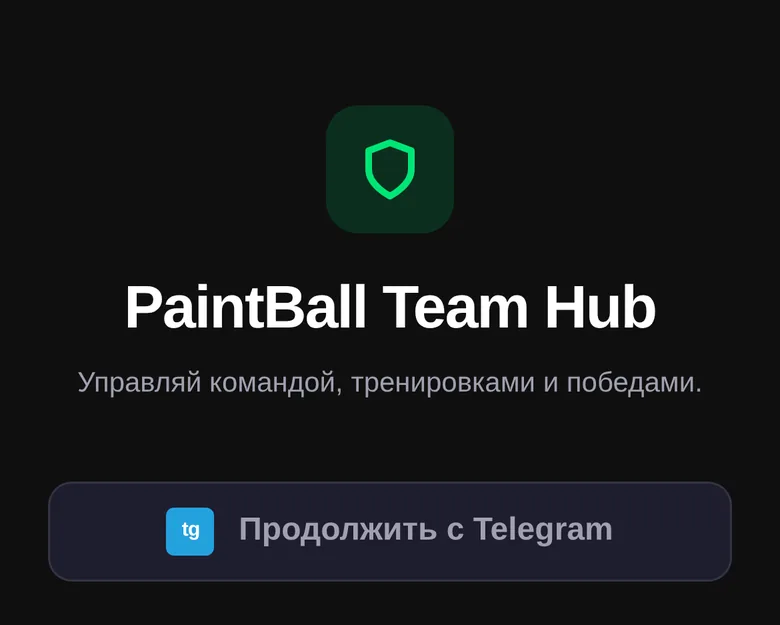
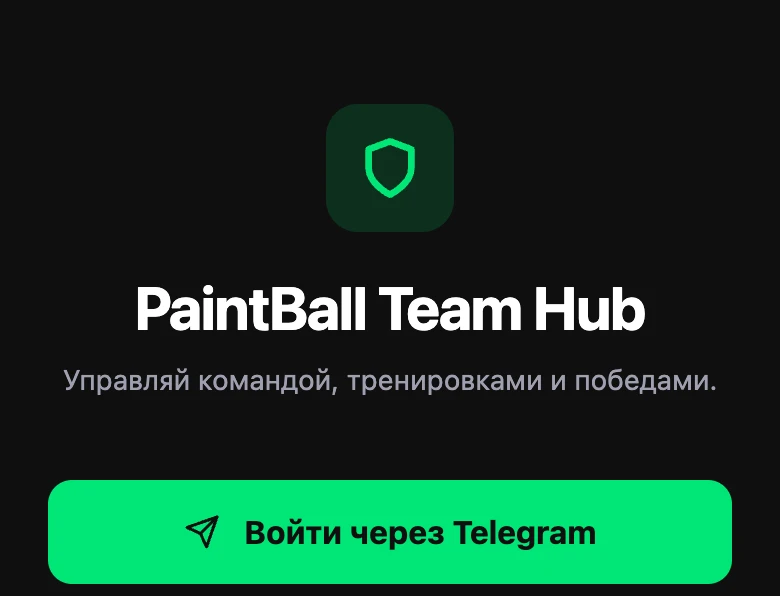
docs(pbth): инструкции и лендинг под ревизию — ссылка команды, заявки, напоминания, слоты
Инструкция капитана: новый раздел «Завести команду и позвать игроков»,
«Напомнить» и «Кому дошло» в проверке явки, раздел «Открыть свободные
слоты»; убраны расчёт сбора и отметка платежей (спрятаны до второго
захода) и личные приглашения (теперь ссылка команды и заявки).
Инструкция игрока: вход кодом по ссылке капитана, ответ на явку прямо в
Telegram, казна игрока без баланса и истории; переснят экран входа.
Лендинг: вместо обещания сбора взносов — то, что есть на экранах.

diff --git a/pbth/public/guide/captain.html b/pbth/public/guide/captain.html
@@ -1,10 +1,12 @@
-<!doctype html><html lang="ru"><head><meta charset="utf-8"><meta name="viewport" content="width=device-width,initial-scale=1"><title>Инструкция для капитана — PaintBall Team Hub</title><style>:root{--bg:#0f0f0f;--s:#1e1e2e;--p:#00e676;--t:#fff;--m:#a0a0b0;--l:#ffffff1a}*{box-sizing:border-box}body{margin:0;background:var(--bg);color:var(--t);font:16px/1.6 Arial,sans-serif}.wrap{max-width:760px;margin:auto;padding:0 18px}header{padding:42px 0 30px;background:radial-gradient(ellipse at top,#00e67622,transparent 65%)}.badge{color:var(--p);font-weight:bold}h1{font-size:34px;line-height:1.15}nav,.guide-part,.cheat{padding:14px 16px;border:1px solid var(--l);border-radius:14px;background:var(--s)}nav a{display:block;min-height:44px;padding:9px 0;color:var(--t)}a:focus-visible{outline:3px solid var(--p);outline-offset:3px}section{padding:34px 0 4px;border-top:1px solid var(--l)}h2{font-size:24px}.guide-part{margin:16px 0}.guide-part h3{margin:0 0 8px;font-size:16px}.zoom{display:block}.zoom img,figure>img{display:block;width:100%;max-width:100%;height:auto;border:1px solid var(--l);border-radius:14px}figure{margin:20px 0}figcaption{color:var(--m);font-size:13px;text-align:center;margin-top:7px}footer{padding:32px 0;color:var(--m);text-align:center}@media(max-width:520px){.wrap{padding:0 16px}h1{font-size:27px}h2{font-size:21px}}</style></head><body><header><div class="wrap"><span class="badge">Инструкция · Капитан</span><h1>PaintBall Team Hub<br>для капитана</h1><p>Здесь показано, как капитану создать событие, собрать ответы команды, записать результаты, посмотреть итоговый разбор, вести деньги и состав. В каждом разделе указано, что нужно сделать и что получится в результате.</p><nav class="toc" aria-labelledby="toc-title"><h2 id="toc-title">Что внутри</h2><ol><li><a href="#s1">Создать событие</a></li><li><a href="#s2">Проверить, кто придёт</a></li><li><a href="#s3">Добавить игры и записать счёт</a></li><li><a href="#s4">Указать порядок отрезков</a></li><li><a href="#s5">Добавить заметки капитана</a></li><li><a href="#s6">Итоговый разбор</a></li><li><a href="#s7">Вести деньги</a></li><li><a href="#s8">Вести состав</a></li><li><a href="#s9">Памятка</a></li></ol></nav></div></header><main class="wrap">
+<!doctype html><html lang="ru"><head><meta charset="utf-8"><meta name="viewport" content="width=device-width,initial-scale=1"><title>Инструкция для капитана — PaintBall Team Hub</title><style>:root{--bg:#0f0f0f;--s:#1e1e2e;--p:#00e676;--t:#fff;--m:#a0a0b0;--l:#ffffff1a}*{box-sizing:border-box}body{margin:0;background:var(--bg);color:var(--t);font:16px/1.6 Arial,sans-serif}.wrap{max-width:760px;margin:auto;padding:0 18px}header{padding:42px 0 30px;background:radial-gradient(ellipse at top,#00e67622,transparent 65%)}.badge{color:var(--p);font-weight:bold}h1{font-size:34px;line-height:1.15}nav,.guide-part,.cheat{padding:14px 16px;border:1px solid var(--l);border-radius:14px;background:var(--s)}nav a{display:block;min-height:44px;padding:9px 0;color:var(--t)}a:focus-visible{outline:3px solid var(--p);outline-offset:3px}section{padding:34px 0 4px;border-top:1px solid var(--l)}h2{font-size:24px}.guide-part{margin:16px 0}.guide-part h3{margin:0 0 8px;font-size:16px}.zoom{display:block}.zoom img,figure>img{display:block;width:100%;max-width:100%;height:auto;border:1px solid var(--l);border-radius:14px}figure{margin:20px 0}figcaption{color:var(--m);font-size:13px;text-align:center;margin-top:7px}footer{padding:32px 0;color:var(--m);text-align:center}@media(max-width:520px){.wrap{padding:0 16px}h1{font-size:27px}h2{font-size:21px}}</style></head><body><header><div class="wrap"><span class="badge">Инструкция · Капитан</span><h1>PaintBall Team Hub<br>для капитана</h1><p>Здесь показано, как капитану завести команду и позвать игроков, создать событие, собрать ответы команды, записать результаты, посмотреть итоговый разбор, вести деньги и состав. В каждом разделе указано, что нужно сделать и что получится в результате.</p><nav class="toc" aria-labelledby="toc-title"><h2 id="toc-title">Что внутри</h2><ol><li><a href="#s0">Завести команду</a></li><li><a href="#s1">Создать событие</a></li><li><a href="#s2">Проверить, кто придёт</a></li><li><a href="#s3">Добавить игры и записать счёт</a></li><li><a href="#s4">Указать порядок отрезков</a></li><li><a href="#s5">Добавить заметки капитана</a></li><li><a href="#s6">Итоговый разбор</a></li><li><a href="#s7">Вести деньги</a></li><li><a href="#s8">Вести состав</a></li><li><a href="#s10">Свободные слоты</a></li><li><a href="#s9">Памятка</a></li></ol></nav></div></header><main class="wrap">
+<section id="s0"><h2>Завести команду и позвать игроков</h2><div class="guide-part"><h3>Что сделать</h3><ol><li>Войдите через Telegram.</li><li>Если команды ещё нет, нажмите «Создать команду», укажите название и отправьте заявку.</li><li>Дождитесь одобрения: команда откроется сама, в Telegram придёт сообщение.</li><li>Откройте раздел «Команда» и нажмите «Пригласить».</li><li>Отправьте ссылку команды в чат или покажите QR-код.</li><li>Принимайте заявки: кнопкой «Принять» в сообщении бота или на экране «Заявки».</li></ol></div><div class="guide-part"><h3>Что получится</h3><p>Игроки попадут в состав по одной ссылке. Личные приглашения рассылать не нужно.</p></div></section>
 <section id="s1"><h2>Создать событие</h2><div class="guide-part"><h3>Что сделать</h3><ol><li>Нажмите кнопку создания события.</li><li>Выберите его вид: тренировка, сбор, турнир или чемпионат.</li><li>Укажите дату, время и место.</li><li>Если событие повторяется, создайте сразу несколько событий.</li><li>Сохраните событие.</li></ol></div><figure><a class="zoom" href="img/event-create.webp"><img src="img/event-create.webp" alt="Форма создания события с датой, временем и местом" width="390" height="982" loading="eager"></a><figcaption>Создание события</figcaption></figure><div class="guide-part"><h3>Что получится</h3><p>Событие появится у участников команды. Они увидят место и время и смогут сообщить, придут они или нет.</p></div></section>
-<section id="s2"><h2>Проверить, кто придёт</h2><div class="guide-part"><h3>Что сделать</h3><ol><li>Откройте нужное событие.</li><li>Посмотрите ответы участников.</li><li>Если время или место изменились, отредактируйте событие.</li></ol></div><figure><img src="img/training.webp" alt="Список ответов участников" width="780" height="2878" loading="lazy" decoding="async"><figcaption>Ответы участников</figcaption></figure><div class="guide-part"><h3>Что получится</h3><p>У вас будет актуальный список участников, а команда увидит последние изменения.</p></div></section>
+<section id="s2"><h2>Проверить, кто придёт</h2><div class="guide-part"><h3>Что сделать</h3><ol><li>Откройте нужное событие.</li><li>Посмотрите ответы участников.</li><li>Нажмите «Напомнить», чтобы написать тем, кто не ответил.</li><li>В блоке «Кому дошло» проверьте, кому напоминание доставлено.</li><li>Если время или место изменились, отредактируйте событие.</li></ol></div><figure><img src="img/training.webp" alt="Список ответов участников" width="780" height="2878" loading="lazy" decoding="async"><figcaption>Ответы участников</figcaption></figure><div class="guide-part"><h3>Что получится</h3><p>У вас будет актуальный список участников, а команда увидит последние изменения. На напоминание игроки отвечают кнопками «Иду» и «Не иду» прямо в Telegram.</p></div></section>
 <section id="s3"><h2>Добавить игры и записать счёт</h2><div class="guide-part"><h3>Что сделать</h3><ol><li>Откройте событие.</li><li>Найдите раздел «Расписание игр».</li><li>Нажмите «Добавить».</li><li>Укажите соперника и время игры.</li><li>После окончания игры запишите счёт. Результат нашей команды всегда указывается слева. Например, <code>4:3</code> означает, что наша команда выиграла четыре игровых отрезка, а соперник — три.</li></ol></div><figure><img src="img/game-row.webp" alt="Строка игры со счётом" width="702" height="324" loading="lazy" decoding="async"><figcaption>Счёт игры</figcaption></figure><div class="guide-part"><h3>Что получится</h3><p>Результат игры сохранится в событии. На его основе приложение создаст список игровых отрезков для дальнейшего разбора.</p></div></section>
 <section id="s4"><h2>Указать порядок выигранных и проигранных отрезков</h2><p>В приложении отдельный отрезок игры называется <strong>пойнтом</strong>. Например, игра со счётом 4:3 состоит из семи пойнтов.</p><div class="guide-part"><h3>Что сделать</h3><ol><li>Нажмите «Пойнты» рядом с нужной игрой.</li><li>Для каждого пойнта укажите: «Выиграли» или «Проиграли».</li><li>Проверьте, что количество побед и поражений совпадает со счётом игры.</li></ol></div><figure><img src="img/points.webp" alt="Список пойнтов с победами и поражениями" width="780" height="1520" loading="lazy" decoding="async"><figcaption>Порядок пойнтов</figcaption></figure><div class="guide-part"><h3>Что получится</h3><p>Будет виден реальный ход игры: в каком порядке команда выигрывала и проигрывала.</p></div></section>
 <section id="s5"><h2>Добавить заметки капитана</h2><div class="guide-part"><h3>Что сделать</h3><ol><li>Откройте нужный пойнт.</li><li>Укажите, какую тактику использовала команда.</li><li>Отметьте, как начинали игру мы и соперник.</li><li>Добавьте короткую заметку: что получилось и что нужно изменить.</li></ol></div><figure><a class="zoom" href="img/captain-report.webp"><img src="img/captain-report.webp" alt="Разбор капитана с выбранной тактикой и стартовыми параметрами" width="390" height="752" loading="lazy" decoding="async"></a><figcaption>Разбор капитана</figcaption></figure><div class="guide-part"><h3>Что получится</h3><p>Наблюдения капитана попадут в общий разбор события и помогут подготовить следующую тренировку.</p></div></section>
 <section id="s6"><h2>Посмотреть итоговый разбор события</h2><div class="guide-part"><h3>Что сделать</h3><ol><li>Откройте событие.</li><li>В разделе «Расписание игр» нажмите «Разбор».</li><li>Откройте вкладку «Итоги».</li><li>Посмотрите:<ul><li>общий результат;</li><li>как менялся результат по ходу игр;</li><li>где и на каком этапе чаще выбывали наши игроки;</li><li>какие варианты начала игры приносили лучший результат;</li><li>какие тактические решения работали лучше;</li><li>достаточно ли команда заполнила данных для надёжных выводов.</li></ul></li></ol></div><figure><a class="zoom" href="img/event-summary.webp" aria-label="Открыть итоговый разбор в полном размере"><img src="img/event-summary.webp" alt="Итоговый разбор с общим результатом, последовательностью пойнтов и анализом поражений" width="390" height="760" loading="lazy" decoding="async"></a><figcaption>Итоговый разбор</figcaption></figure><div class="guide-part"><h3>Что получится</h3><p>Вы увидите сильные и слабые места команды и сможете выбрать конкретные задачи для следующей тренировки.</p></div></section>
-<section id="s7"><h2>Вести деньги команды</h2><div class="guide-part"><h3>Что сделать</h3><ol><li>Откройте раздел «Казна».</li><li>После события добавьте расходы команды.</li><li>Проверьте рассчитанную сумму сбора.</li><li>Отметьте поступившие платежи.</li><li>Проверьте долги и историю операций.</li></ol></div><figure><img src="img/finance.webp" alt="Казна команды" width="780" height="1956" loading="lazy" decoding="async"><figcaption>Казна команды</figcaption></figure><div class="guide-part"><h3>Что получится</h3><p>Будет понятно, сколько команда потратила, сколько нужно собрать и кто ещё не заплатил.</p></div></section>
-<section id="s8"><h2>Вести состав команды</h2><div class="guide-part"><h3>Что сделать</h3><ol><li>Создайте приглашение для нового участника.</li><li>Отправьте его через Telegram.</li><li>Назначьте участнику роль.</li><li>При необходимости измените его статус.</li></ol></div><figure><img src="img/team.webp" alt="Состав команды с ролями" width="780" height="2942" loading="lazy" decoding="async"><figcaption>Состав команды</figcaption></figure><div class="guide-part"><h3>Что получится</h3><p>В приложении будет актуальный состав команды с правильными ролями и доступами.</p></div></section>
-<section id="s9"><h2>Короткая памятка капитана</h2><div class="cheat"><ul><li>Перед событием: создать событие и проверить ответы команды.</li><li>Перед играми: добавить расписание и соперников.</li><li>После каждой игры: внести счёт и указать порядок побед и поражений.</li><li>После события: добавить заметки и посмотреть итоговый разбор.</li><li>По деньгам: внести расходы, проверить сборы и долги.</li><li>По составу: пригласить участников и проверить их роли.</li></ul></div></section></main><footer>PaintBall Team Hub · инструкция для капитана</footer></body></html>
+<section id="s7"><h2>Вести деньги команды</h2><div class="guide-part"><h3>Что сделать</h3><ol><li>Откройте раздел «Казна».</li><li>После события добавьте расходы команды.</li><li>Проверьте долги и историю операций.</li></ol></div><figure><img src="img/finance.webp" alt="Казна команды" width="780" height="1956" loading="lazy" decoding="async"><figcaption>Казна команды</figcaption></figure><div class="guide-part"><h3>Что получится</h3><p>Будет понятно, сколько команда потратила и кто ещё не заплатил. Расчёт сбора по событию и отметка платежей пока недоступны.</p></div></section>
+<section id="s8"><h2>Вести состав команды</h2><div class="guide-part"><h3>Что сделать</h3><ol><li>Нажмите «Пригласить» и отправьте ссылку команды.</li><li>Примите заявку нового участника.</li><li>При необходимости сделайте участника тренером.</li><li>При необходимости измените его статус.</li></ol></div><figure><img src="img/team.webp" alt="Состав команды с ролями" width="780" height="2942" loading="lazy" decoding="async"><figcaption>Состав команды</figcaption></figure><div class="guide-part"><h3>Что получится</h3><p>В приложении будет актуальный состав команды с правильными ролями и доступами.</p></div></section>
+<section id="s10"><h2>Открыть свободные слоты</h2><div class="guide-part"><h3>Что сделать</h3><ol><li>Откройте событие, на которое не хватает игроков.</li><li>В блоке «Свободные слоты» включите открытое расписание команды.</li><li>Укажите, сколько мест свободно и цену за место.</li><li>Нажмите «Открыть слоты».</li></ol></div><div class="guide-part"><h3>Что получится</h3><p>Подписчики команды получат уведомление и смогут записаться одним нажатием. О каждой записи вам придёт сообщение с кнопкой «Снять».</p></div></section>
+<section id="s9"><h2>Короткая памятка капитана</h2><div class="cheat"><ul><li>В начале: получить команду, отправить ссылку и принять заявки.</li><li>Перед событием: создать событие, проверить ответы команды и напомнить тем, кто молчит.</li><li>Перед играми: добавить расписание и соперников.</li><li>После каждой игры: внести счёт и указать порядок побед и поражений.</li><li>После события: добавить заметки и посмотреть итоговый разбор.</li><li>По деньгам: внести расходы и проверить долги.</li><li>По составу: пригласить участников и проверить их роли.</li><li>Если не хватает игроков: открыть свободные слоты.</li></ul></div></section></main><footer>PaintBall Team Hub · инструкция для капитана</footer></body></html>

diff --git a/pbth/__tests__/unit/guides.test.ts b/pbth/__tests__/unit/guides.test.ts
@@ -4,7 +4,7 @@ import { existsSync, readFileSync } from "node:fs";
 import { fileURLToPath } from "node:url";
 import { describe, expect, it } from "vitest";
 
-const guide = (name: "captain" | "trainer") =>
+const guide = (name: "captain" | "trainer" | "player") =>
   readFileSync(fileURLToPath(new URL(`../../public/guide/${name}.html`, import.meta.url)), "utf8");
 const section = (page: string, id: string) =>
   page.match(new RegExp(`<section id="${id}">([\\s\\S]*?)</section>`))?.[1] ?? "";
@@ -23,9 +23,12 @@ describe("role guide pages", () => {
   it("ships the approved captain guide without internal jargon", () => {
     const captain = guide("captain");
     expectInOrder(visibleText(captain), [
+      "Завести команду и позвать игроков", "нажмите «Создать команду»", "нажмите «Пригласить»",
+      "Принимайте заявки", "Игроки попадут в состав по одной ссылке",
       "Создать событие", "Нажмите кнопку создания события", "тренировка, сбор, турнир или чемпионат",
       "Событие появится у участников команды", "Проверить, кто придёт", "Посмотрите ответы участников",
-      "У вас будет актуальный список участников", "Добавить игры и записать счёт",
+      "Нажмите «Напомнить»", "В блоке «Кому дошло»", "У вас будет актуальный список участников",
+      "кнопками «Иду» и «Не иду» прямо в Telegram", "Добавить игры и записать счёт",
       "Найдите раздел «Расписание игр»", "Результат нашей команды всегда указывается слева",
       "приложение создаст список игровых отрезков", "Указать порядок выигранных и проигранных отрезков",
       "отдельный отрезок игры называется", "Для каждого пойнта укажите: «Выиграли» или «Проиграли»",
@@ -34,10 +37,11 @@ describe("role guide pages", () => {
       "Посмотреть итоговый разбор события", "В разделе «Расписание игр» нажмите «Разбор»",
       "Откройте вкладку «Итоги»", "сильные и слабые места команды", "Вести деньги команды",
       "После события добавьте расходы команды", "Будет понятно, сколько команда потратила",
-      "Вести состав команды", "Создайте приглашение для нового участника", "актуальный состав команды",
+      "Вести состав команды", "Нажмите «Пригласить» и отправьте ссылку команды", "актуальный состав команды",
+      "Открыть свободные слоты", "Нажмите «Открыть слоты»", "Подписчики команды получат уведомление",
       "Короткая памятка капитана", "После каждой игры: внести счёт", "По составу: пригласить участников",
     ]);
-    for (const id of ["s1", "s2", "s3", "s4", "s5", "s6", "s7", "s8"]) {
+    for (const id of ["s0", "s1", "s2", "s3", "s4", "s5", "s6", "s7", "s8", "s10"]) {
       expect(section(captain, id)).toContain("Что сделать");
       expect(section(captain, id)).toContain("Что получится");
     }
@@ -93,10 +97,10 @@ describe("role guide pages", () => {
       "Откройте нужное событие.", "Если время или место изменились, отредактируйте событие.",
       "После окончания игры запишите счёт.", "Нажмите «Пойнты» рядом с нужной игрой.",
       "Проверьте, что количество побед и поражений совпадает со счётом игры.",
-      "Проверьте рассчитанную сумму сбора.", "Отметьте поступившие платежи.",
       "Проверьте долги и историю операций.",
-      "Будет понятно, сколько команда потратила, сколько нужно собрать и кто ещё не заплатил.",
-      "Отправьте его через Telegram.", "Назначьте участнику роль.",
+      "Будет понятно, сколько команда потратила и кто ещё не заплатил.",
+      "Расчёт сбора по событию и отметка платежей пока недоступны.",
+      "Примите заявку нового участника.", "При необходимости сделайте участника тренером.",
     ]);
     expectInOrder(trainer, [
       "Создавать тренировки и сборы.", "Создавать несколько повторяющихся тренировок.", "Отмечать участников.",
@@ -130,5 +134,19 @@ describe("role guide pages", () => {
     for (const page of [captain, trainer]) {
       expect(visibleText(page)).not.toMatch(/TRAINING|MEETING|TOURNAMENT|CHAMPIONSHIP|W\/L|event\s*→\s*expenses\s*→\s*collection|кольц|матриц|вафл|контур|актуализир/i);
     }
+  });
+
+  // Ревизия 11.11.2026: вход кодом и ссылка команды вместо личных приглашений,
+  // сбор по событию спрятан, игрок не видит баланс и историю казны. Инструкции
+  // не должны обещать того, чего на экранах нет.
+  it("does not describe screens the revision removed", () => {
+    const captain = visibleText(guide("captain"));
+    const player = visibleText(guide("player"));
+    expect(captain).not.toMatch(/сумму сбора|Отметьте поступившие платежи|Создайте приглашение/);
+    expect(player).not.toMatch(/Продолжить с Telegram|ещё не добавил твой Telegram|узнает тебя по нику/);
+    expect(player).not.toMatch(/общий баланс команды|История — все движения/);
+    expect(player).toContain("«Войти и подать заявку»");
+    expect(player).toContain("Общий баланс и историю операций видит только капитан.");
+    expect(guide("player")).not.toContain("img/finance.webp");
   });
 });

diff --git a/pbth/public/guide/player.html b/pbth/public/guide/player.html
@@ -170,14 +170,14 @@
 <!-- 2 -->
 <section id="s2">
   <h2 class="sec"><span class="num">2</span>Вход</h2>
-  <p>Одна кнопка — <strong>«Продолжить с Telegram»</strong>. Telegram спросит подтверждение, приложение узнает тебя по нику и подтянет в твою команду. Ни логинов, ни паролей.</p>
+  <p>Открой ссылку, которую прислал капитан, и нажми <strong>«Войти и подать заявку»</strong>, затем <strong>«Войти через Telegram»</strong>. Приложение покажет код и откроет бота — в чате нажми <strong>«Это я, войти»</strong>. Ни логинов, ни паролей. Капитан примет заявку, и команда откроется сама.</p>
   <figure>
-    <img class="narrow" src="img/login.webp" alt="Экран входа с кнопкой «Продолжить с Telegram»" width="780" height="625" loading="eager">
+    <img class="narrow" src="img/login.webp" alt="Экран входа с кнопкой «Войти через Telegram»" width="780" height="596" loading="eager">
     <figcaption>Экран входа</figcaption>
   </figure>
   <div class="warn">
-    <b>Тебя не пустило или не видно команду</b>
-    Значит капитан ещё не добавил твой Telegram в состав. Напиши ему — это чинится за минуту.
+    <b>Вошёл, а команды нет</b>
+    Значит ты вошёл не по ссылке команды или капитан ещё не принял заявку. Попроси у капитана ссылку или код команды и нажми «Ввести код команды».
   </div>
 </section>
 
@@ -225,7 +225,7 @@
   <p>На экране события также видно <strong>место</strong>, <strong>время</strong> и <strong>кто идёт</strong>: три группы — «Идут», «Молчат», «Не идут». Полезно посмотреть перед ответом: если в «Идут» пусто, а игра завтра — самое время расшевелить чат.</p>
   <div class="tip">
     <b>Отвечай сразу, как пришло уведомление</b>
-    В команде за поздний ответ бывает штраф в казну (см. раздел «Казна»). Пять секунд на кнопку дешевле.
+    Ответить можно прямо в Telegram — кнопками «Иду» и «Не иду» под напоминанием. В команде за поздний ответ бывает штраф в казну (см. раздел «Казна»). Пять секунд на кнопку дешевле.
   </div>
 </section>
 
@@ -386,16 +386,8 @@
 <!-- 10 -->
 <section id="s10">
   <h2 class="sec"><span class="num">10</span>Казна</h2>
-  <figure>
-    <img src="img/finance.webp" alt="Экран казны: общий баланс, история операций, вкладка «Должники»" width="780" height="1956" loading="lazy" decoding="async">
-    <figcaption>Вкладка «Казна»</figcaption>
-  </figure>
-  <p>Сверху — <strong>общий баланс</strong> команды и <strong>долг игроков</strong> общей суммой. Ниже две вкладки:</p>
-  <ul>
-    <li><strong>История</strong> — все движения: взносы, оплата турниров, закупка шаров, штрафы. <span style="color:var(--primary)">Зелёное со знаком +</span> — деньги пришли, <span style="color:var(--danger)">красное с −</span> — потратили. Указано, кто именно внёс.</li>
-    <li><strong>Должники</strong> — кто сколько должен.</li>
-  </ul>
-  <p>Ты казну <strong>только смотришь</strong> — правки вносит капитан. Твоя задача: раз в месяц заглянуть, нет ли тебя в должниках.</p>
+  <p>Сверху — <strong>твой долг</strong>: сколько ты должен команде, или что долга нет. Ниже — <strong>должники</strong>: кто сколько должен.</p>
+  <p>Общий баланс и историю операций видит только капитан. Твоя задача: раз в месяц заглянуть, нет ли тебя в должниках.</p>
 </section>
 
 <!-- 11 -->

diff --git a/pbth/views/LandingView.tsx b/pbth/views/LandingView.tsx
@@ -155,7 +155,7 @@ export const LandingView: React.FC = () => {
             <FeatureCard 
               icon={<Wallet size={32} className="text-yellow-500" />}
               title="Прозрачные финансы"
-              description="Удобная форма для сбора взносов, контроль бюджета команды и история всех транзакций для каждого игрока."
+              description="Расходы и баланс команды — у капитана, а у каждого игрока — его долг и список должников."
             />
           </div>
         </div>
@@ -183,7 +183,7 @@ export const LandingView: React.FC = () => {
             <StepCard 
               number="03"
               title="Полный контроль"
-              description="Добавляйте события, собирайте взносы и отслеживайте статистику посещений."
+              description="Добавляйте события, собирайте ответы «иду / не иду» и отслеживайте статистику посещений."
             />
           </div>
         </div>
@@ -227,7 +227,7 @@ export const LandingView: React.FC = () => {
               <p className="text-pb-subtext mb-8">Для турнирных команд с серьезным подходом к тренировкам.</p>
               <ul className="space-y-4 mb-8">
                 <PricingFeature text="Неограниченное число игроков" />
-                <PricingFeature text="Финансовый модуль и взносы" />
+                <PricingFeature text="Казна команды: расходы и долги" />
                 <PricingFeature text="Детальная статистика посещений" />
                 <PricingFeature text="Экспорт календаря (ICS)" />
               </ul>

diff --git a/pbth/e2e/guides.spec.ts b/pbth/e2e/guides.spec.ts
@@ -33,6 +33,6 @@ test("captain guide TOC follows keyboard order and reaches its target", async ({
   await expect(page.locator("nav.toc a").first()).toBeFocused();
 
   await page.keyboard.press("Enter");
-  await expect(page).toHaveURL(/#s1$/);
-  await expect(page.locator("#s1 h2")).toBeInViewport();
+  await expect(page).toHaveURL(/#s0$/);
+  await expect(page.locator("#s0 h2")).toBeInViewport();
 });
